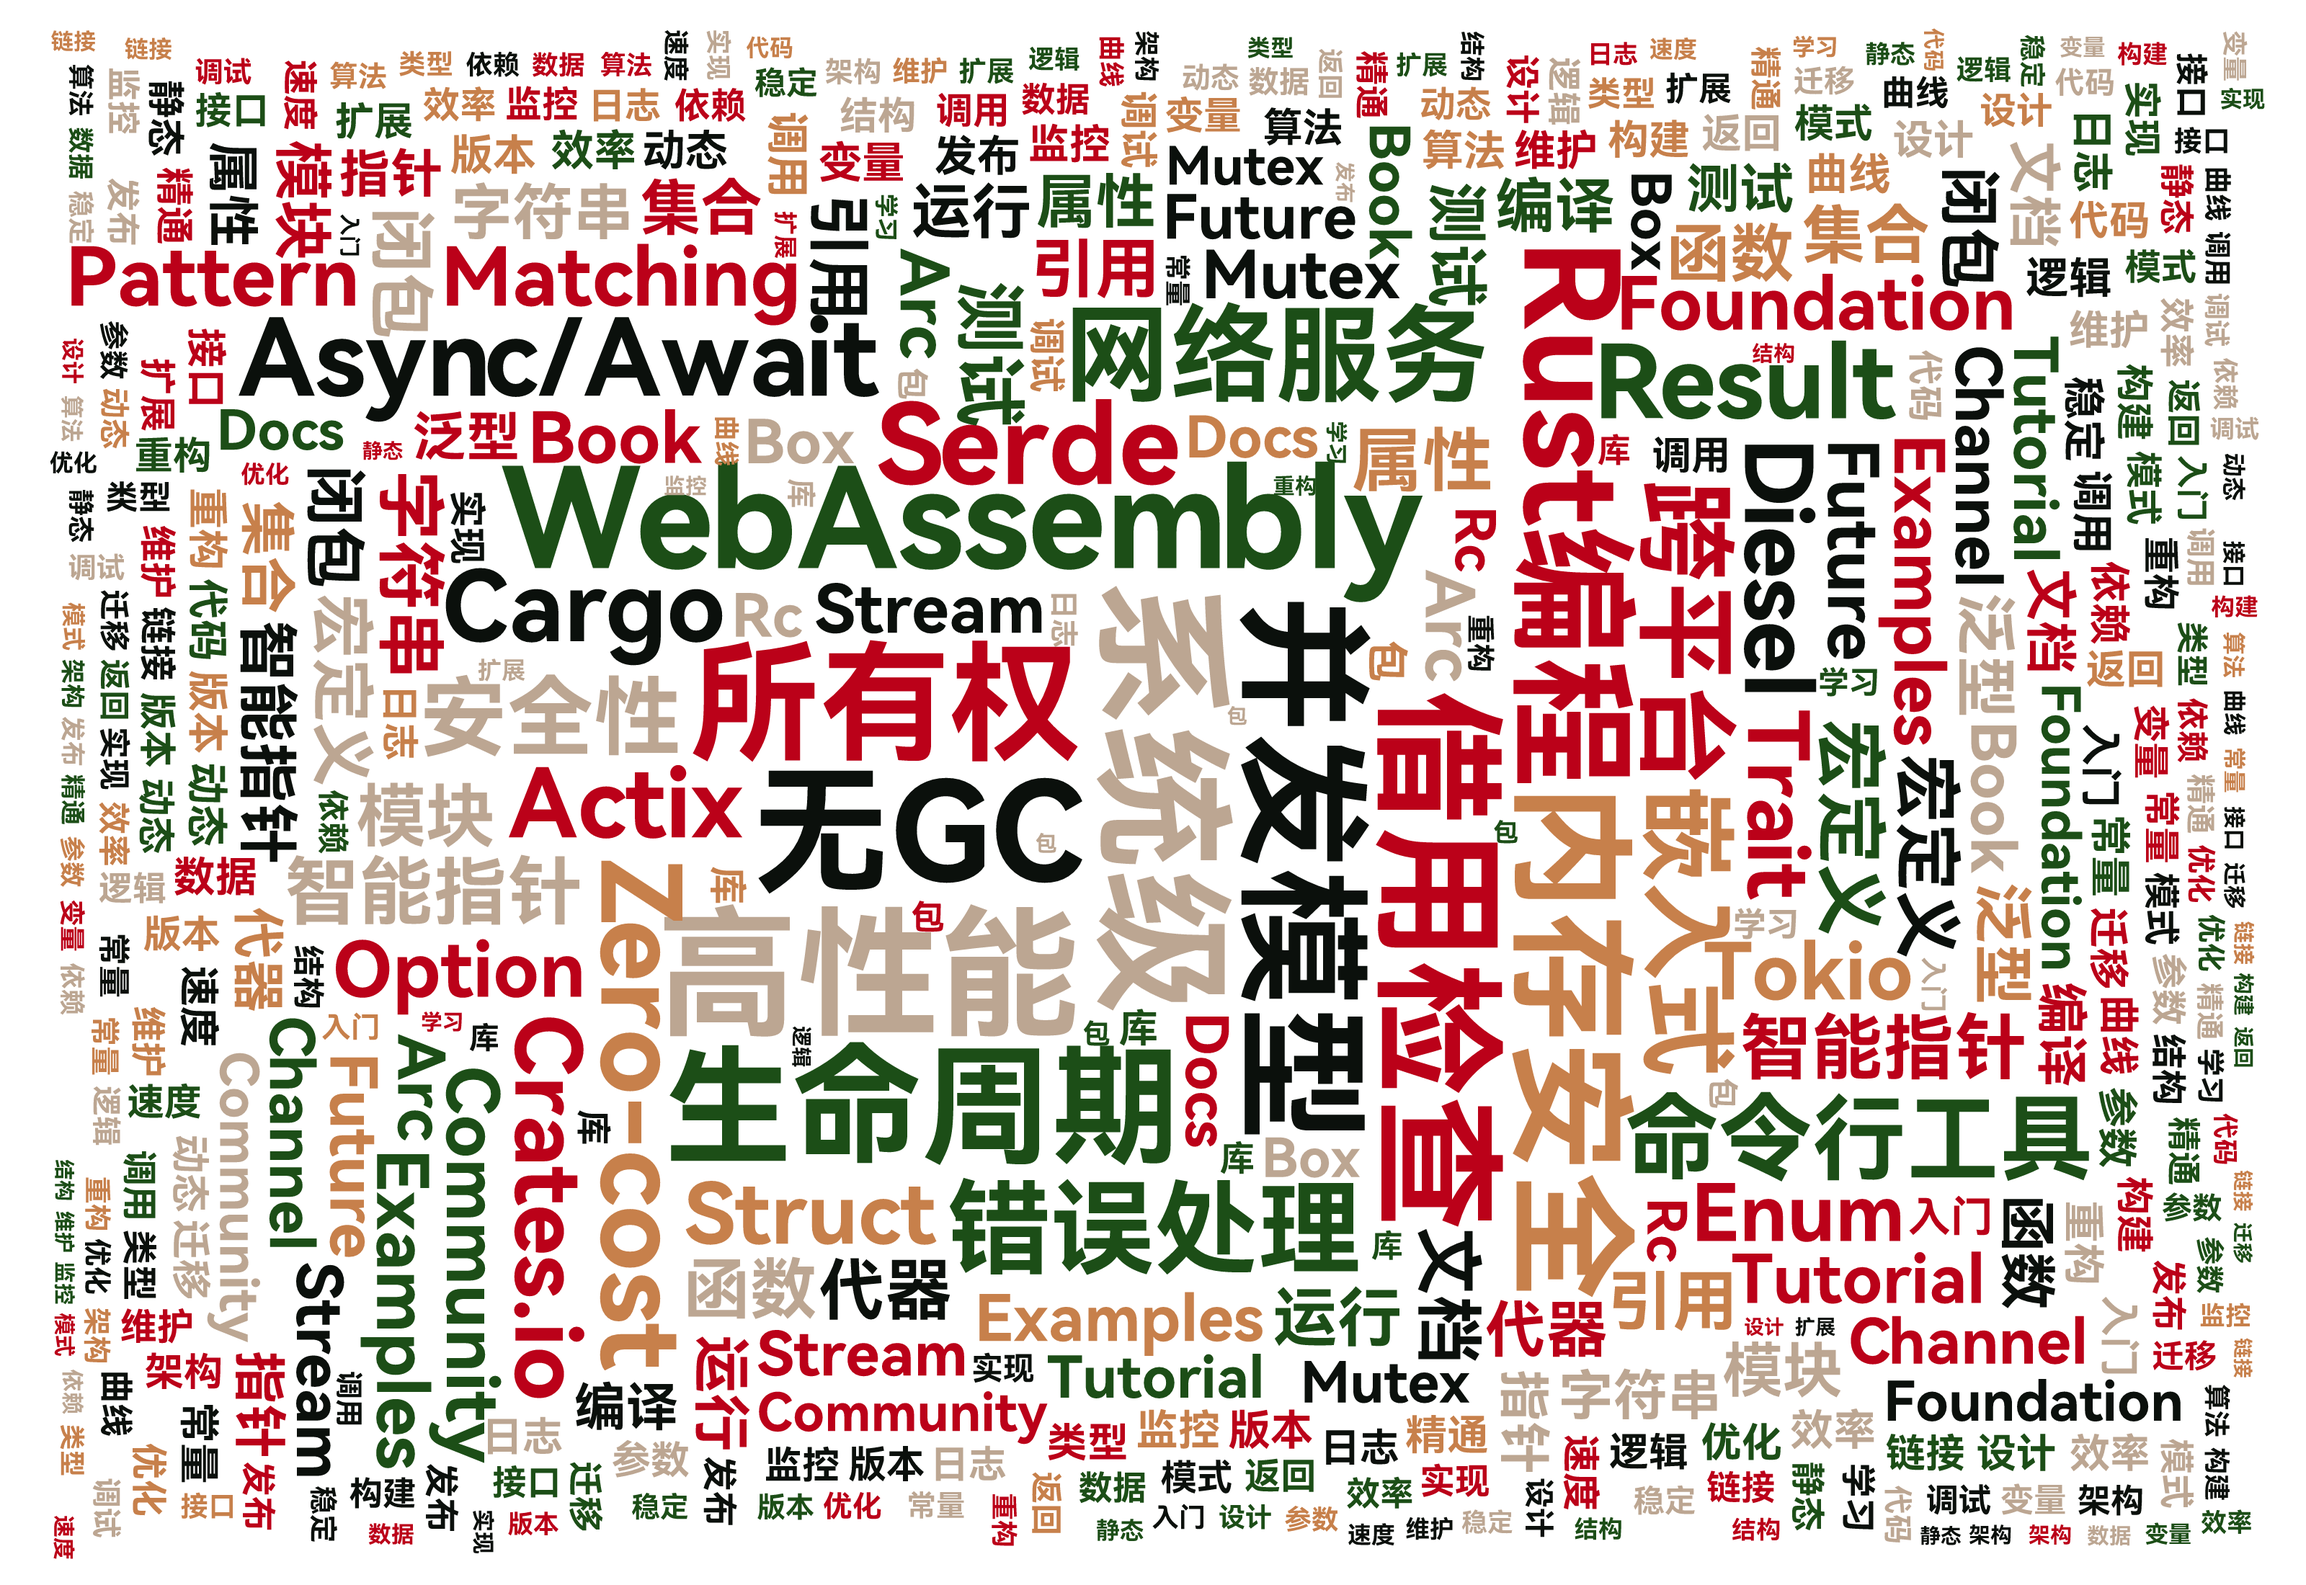
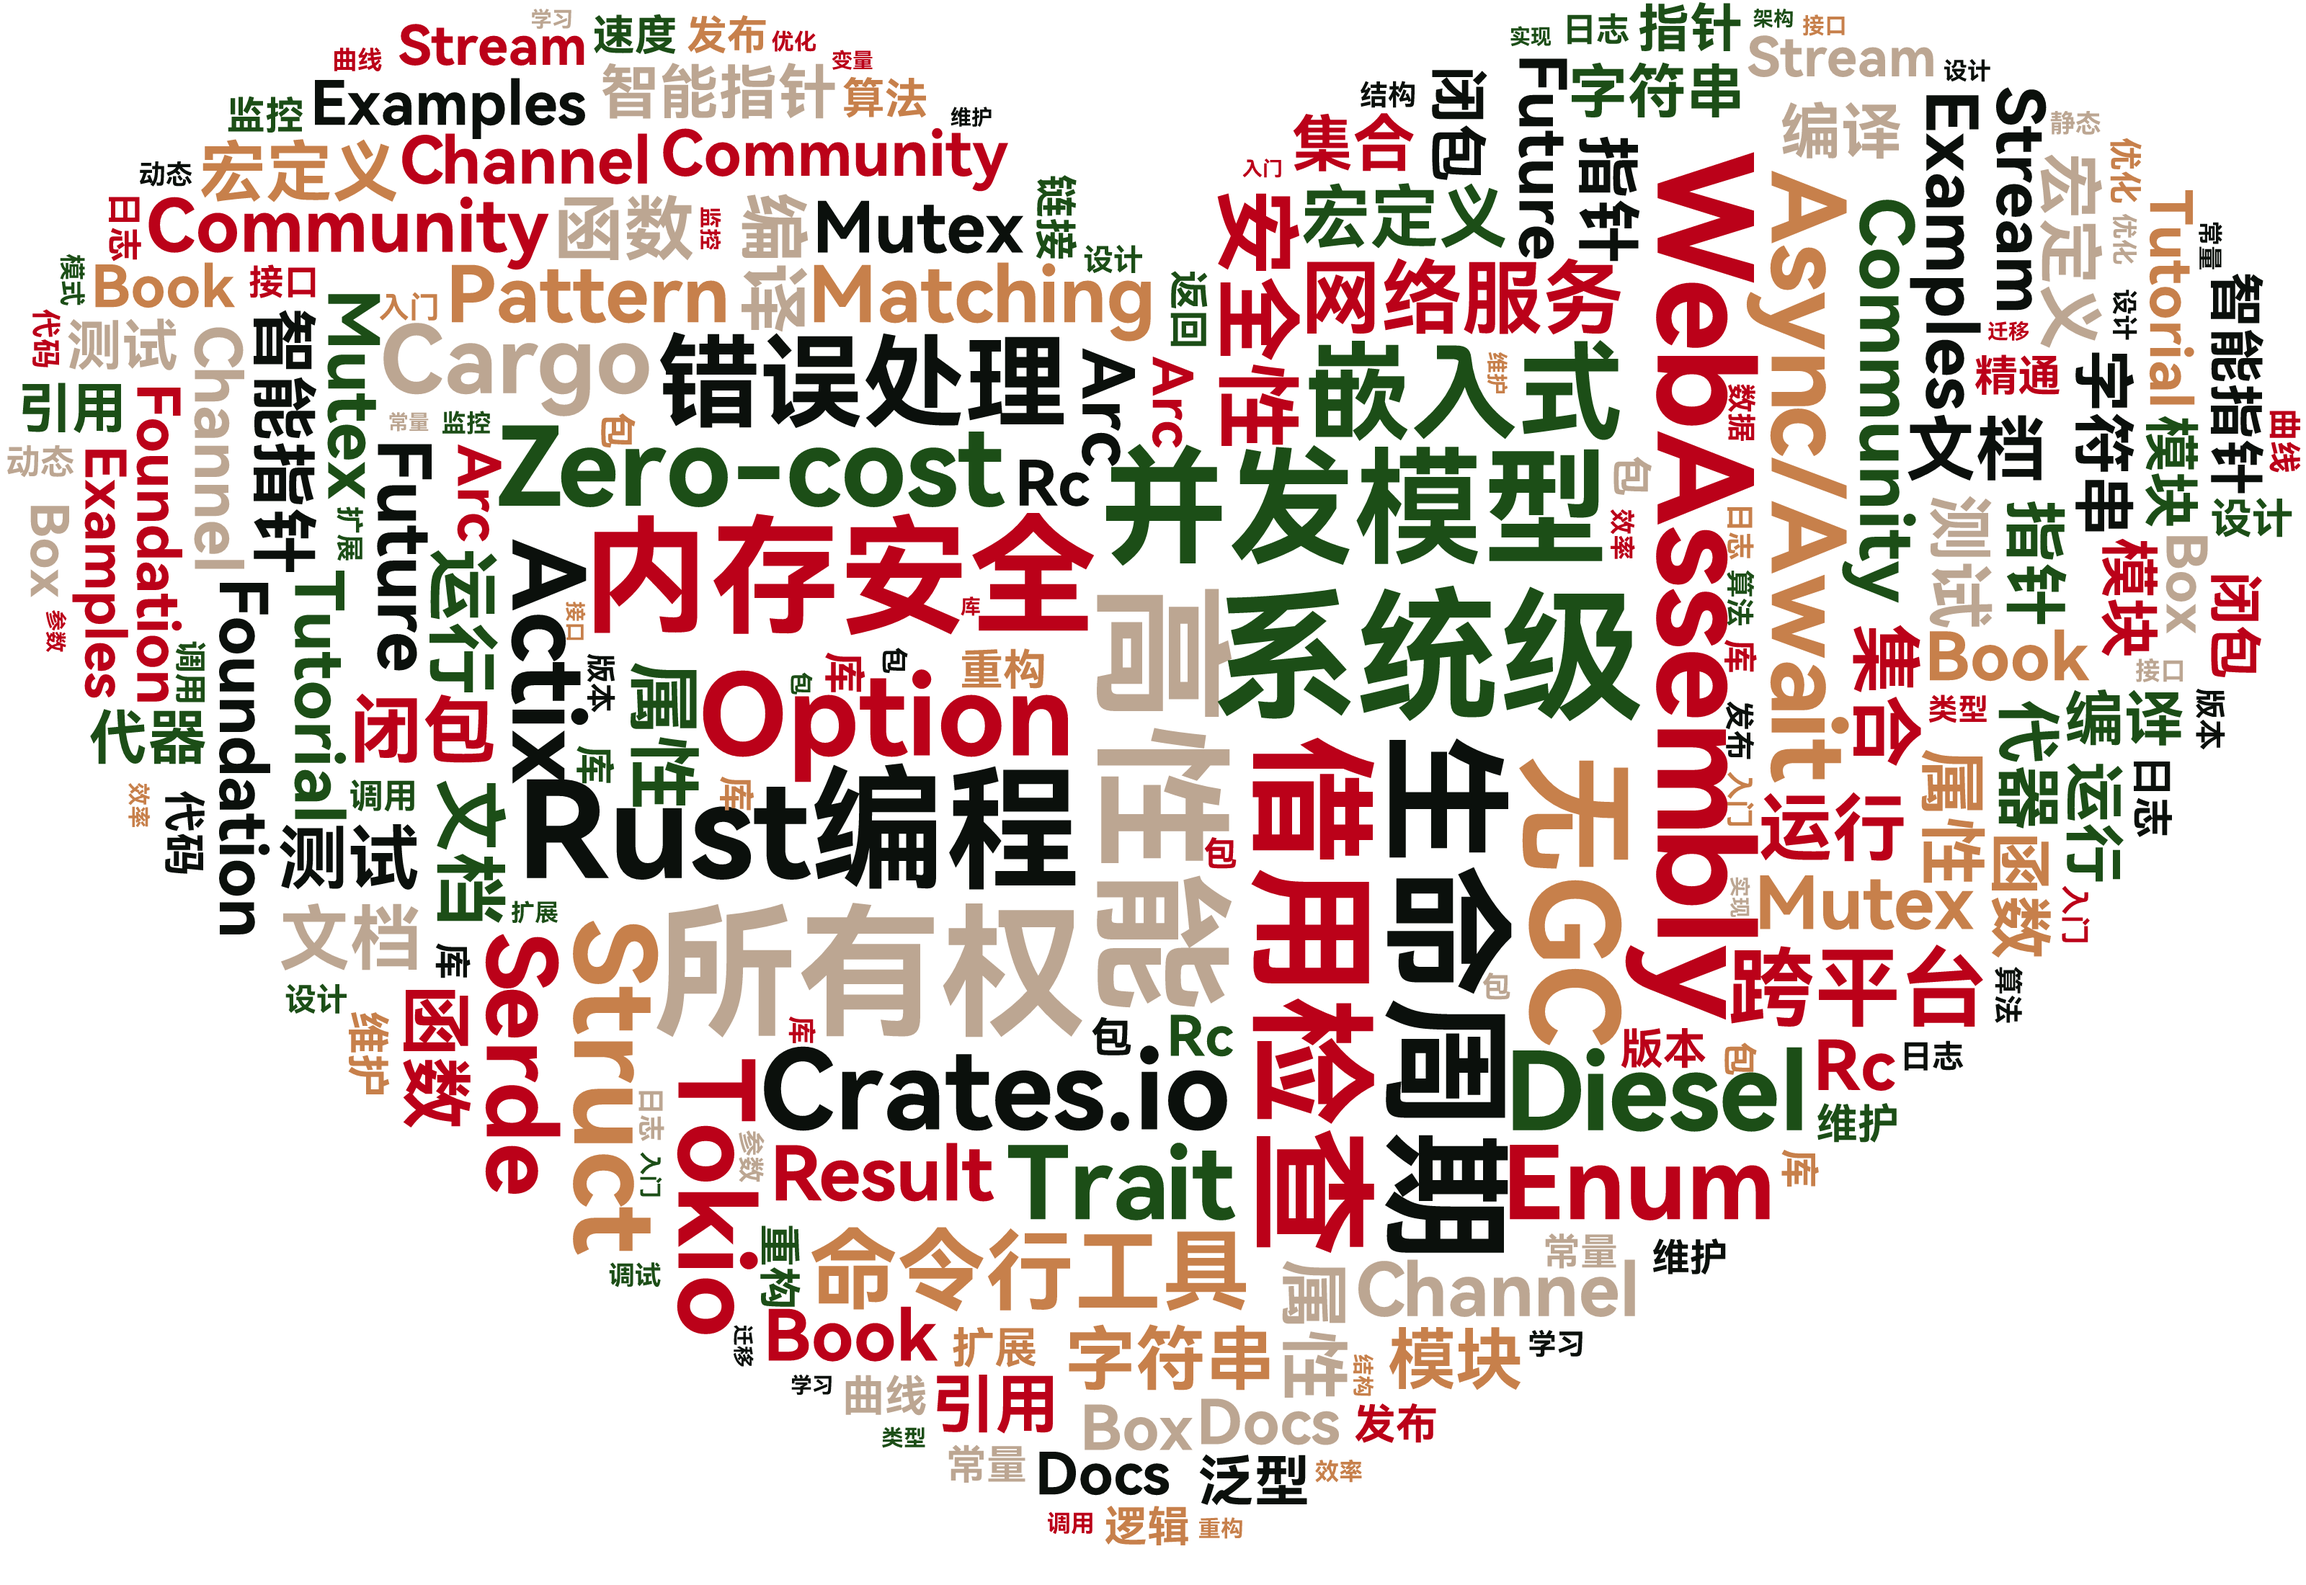
Add heart mask preset to Chinese dense example

diff --git a/examples/chinese_dense.rs b/examples/chinese_dense.rs
@@ -1,4 +1,4 @@
-use araea_wordcloud::{ColorScheme, WordCloudBuilder, WordInput};
+use araea_wordcloud::{ColorScheme, MaskShape, WordCloudBuilder, WordInput};
 use rand::Rng;
 use std::fs;
 use std::time::Instant;
@@ -36,6 +36,7 @@ fn main() -> Result<(), Box<dyn std::error::Error>> {
         .color_scheme(scheme)
         .background(scheme.background_color())
         .padding(2)
+        .mask_preset(MaskShape::Heart)
         .angles(vec![0.0, 90.0])
         .word_spacing(2.0)
         .font_size_range(14.0, dynamic_max_font_size)
